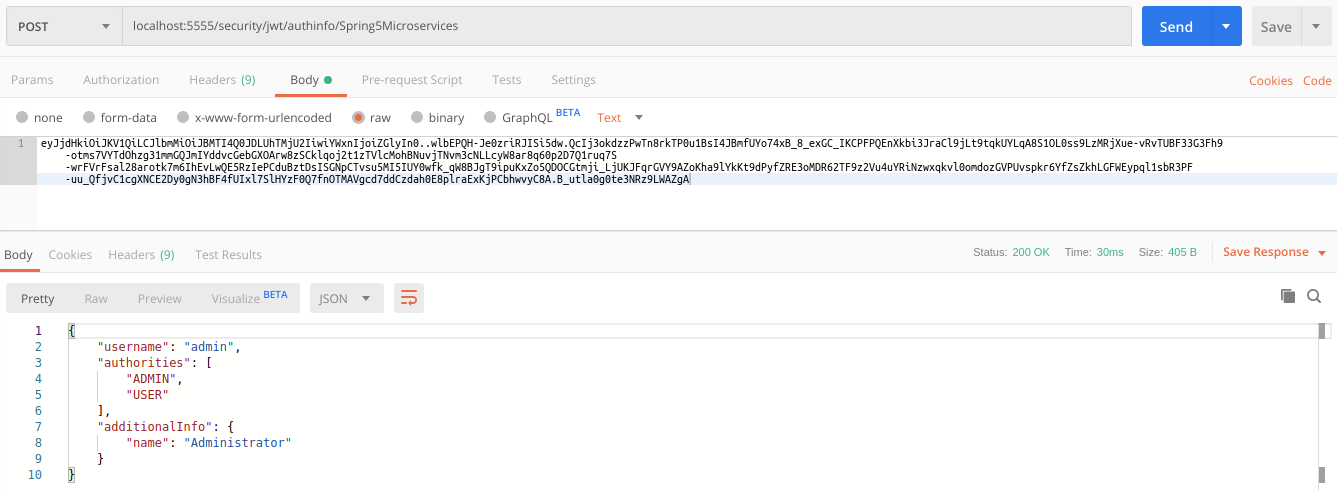
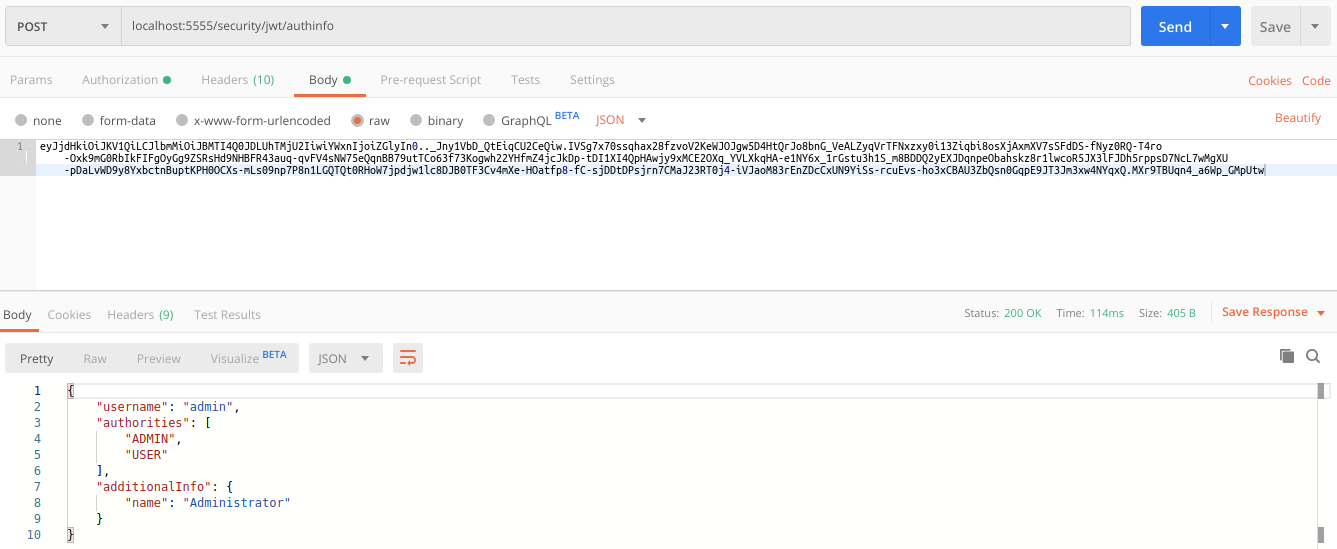
Updated README file

diff --git a/README.md b/README.md
@@ -257,8 +257,9 @@ related with the table `eat.user`).
 
 ![Alt text](/documentation/SecurityOauthService_AuthorizationInfo.png?raw=true "Authorization information")
 
-Regarding to **security-jwt-service**, it has an equivalent list of web services to provide the same funcionality (however in this case, the credentials information is not
-required):
+Regarding to **security-jwt-service**, it has an equivalent list of web services to provide the same funcionality, starting with the required credentials for every request:
+
+![Alt text](/documentation/SecurityJwtService_Credentials.png?raw=true "Security Jwt credentials")
 
 **1.** Get the authentication information:
 
